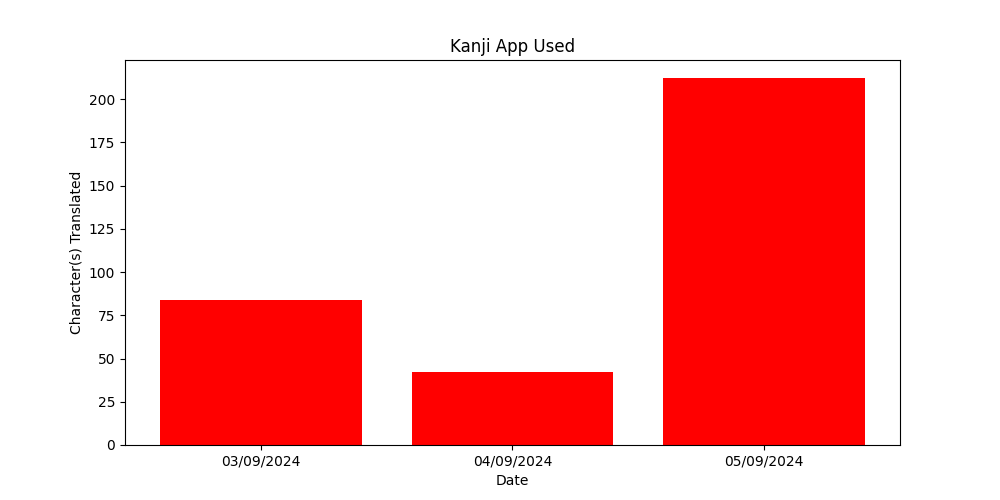
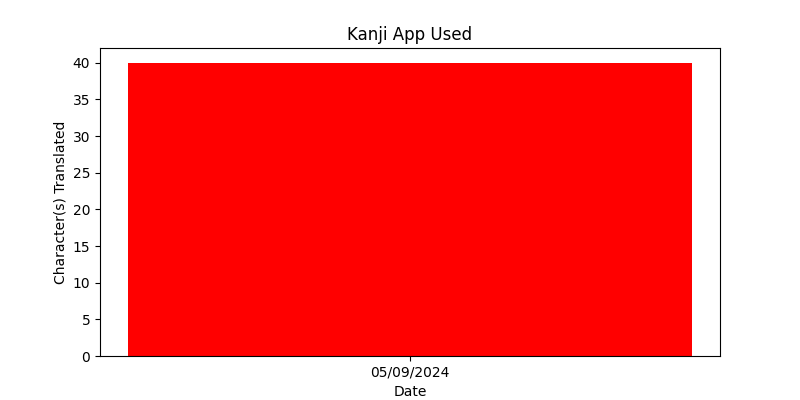
fixing SQL Query for the database manipulation for graph making so that each account has different graph

diff --git a/file_handling.py b/file_handling.py
@@ -5,6 +5,7 @@ import matplotlib.pyplot as plt
 import mplcursors
 import sqlite3
 import os 
+from server import get_daily_data
 import numpy as np
 
 def copy_file(source_path, destination_path):
@@ -71,8 +72,8 @@ def create_bar_graph(x,y):
     os.makedirs(output_dir, exist_ok=True)
 
     # Create bar graph
-    plt.figure(figsize=(10, 5))
-    bars = plt.bar(x, y, color='red')
+    plt.figure(figsize=(8, 4))
+    bars = plt.bar(x, y, color='red', width=0.5)
 
     # Add title and labels
     plt.title("Kanji App Used")
@@ -112,21 +113,20 @@ def delete_file():
         if os.path.isfile(file_path):
             os.remove(file_path)
 
-def fetch_graphing_data():
+def fetch_graphing_data(username):
     # Connect to the SQLite database
     conn = sqlite3.connect('account_database.db')
     cursor = conn.cursor()
     
     # Execute the query to fetch date and data_value columns
-    cursor.execute("SELECT date, data_value FROM daily_data")
-    rows = cursor.fetchall()
+    rows = get_daily_data(username)
     
     # Close the database connection
     conn.close()
     
     # Separate the fetched data into two lists
-    dates = [row[0] for row in rows]
-    data_values = [row[1] for row in rows]
+    dates = [row[1] for row in rows]
+    data_values = [row[2] for row in rows]
     
     # Convert the lists to NumPy arrays
     dates_array = np.array(dates)

diff --git a/datalog.py b/datalog.py
@@ -33,14 +33,16 @@ characters, tstamps = separate_and_count_characters(df2)
 print("Translation Counts:", characters)
 print("Timestamps:", tstamps)
 
-if (update_daily_data('admin', tstamps, characters)):
+try: 
+    update_daily_data('admin1', tstamps, characters)
     print("Data has been updated successfully.")
-else:
-    print("Data update failed.")
+except:
+    print("Error updating data.")
+
 
 delete_saved_image(delete_path)
 
-x, y = fetch_graphing_data()
+x, y = fetch_graphing_data("admin1")
 print(x, y)
 filename_graph = create_bar_graph(x, y)
 print(f"Graph {filename_graph} printed successfully")

diff --git a/server.py b/server.py
@@ -45,7 +45,7 @@ def register(username, password):
         return False
 
 #usage example
-#status = register('admin', 'admin')
+#status = register('admin1', 'admin1')
 #print(status)
 
 
@@ -89,7 +89,7 @@ def get_daily_data(username):
     cursor.execute('''
         SELECT u.username, d.date, d.data_value 
         FROM daily_data d
-        JOIN users u ON d.user_id = u.user_id
+        JOIN users u ON d.user_id = u.id
         WHERE u.username = ?
         ORDER BY d.date
     ''', (username,))
